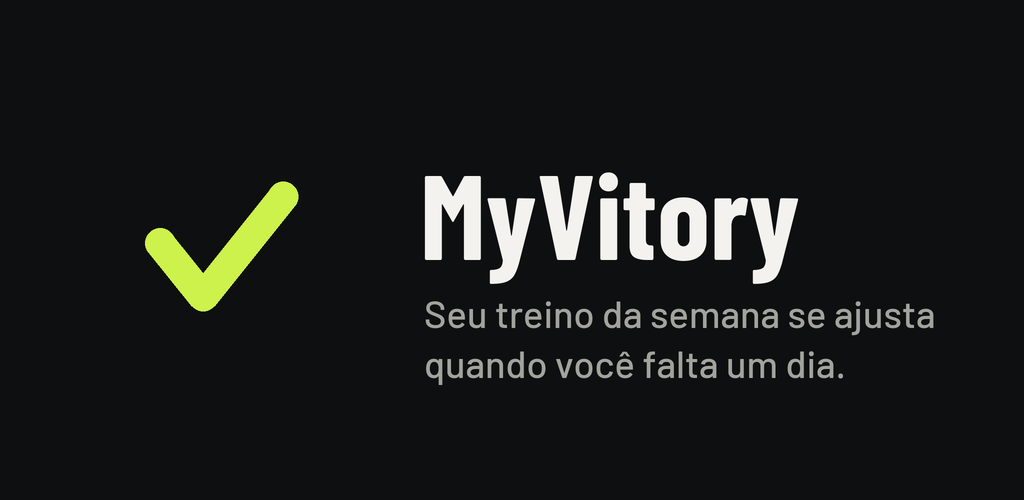
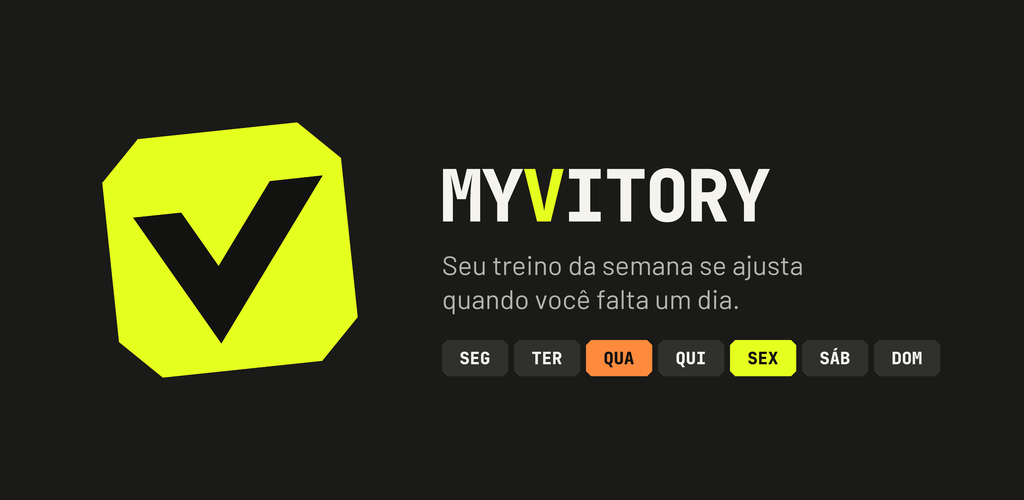
v0.13.1: marca Selo V
Ícone do app sem fundo (adaptive icon com fundo transparente), versão
monocromática para o ícone temático, notificação só com o V e abertura
animada no Android 12+. Painel com o selo e o nome (V em volt) no topo e no
login, favicon novo. Artes da Play Store e marca horizontal do README
refeitas a partir da mesma geometria.

Changed region(s): [[0.4062, 0.33, 0.9375, 0.78], [0.0938, 0.24, 0.375, 0.78]]

diff --git a/app/src/test/kotlin/com/myvitory/app/ui/ScreensRenderTest.kt b/app/src/test/kotlin/com/myvitory/app/ui/ScreensRenderTest.kt
@@ -16,6 +16,26 @@ import androidx.compose.ui.test.performClick
 import androidx.compose.ui.test.performSemanticsAction
 import androidx.compose.ui.semantics.SemanticsActions
 import com.myvitory.app.ui.theme.MyVitoryTheme
+import androidx.compose.foundation.Image
+import androidx.compose.foundation.background
+import androidx.compose.foundation.layout.Arrangement
+import androidx.compose.foundation.layout.Box
+import androidx.compose.foundation.layout.Column
+import androidx.compose.foundation.layout.Row
+import androidx.compose.foundation.layout.padding
+import androidx.compose.foundation.layout.requiredSize
+import androidx.compose.foundation.layout.size
+import androidx.compose.foundation.shape.CircleShape
+import androidx.compose.material3.Icon
+import androidx.compose.ui.Alignment
+import androidx.compose.ui.Modifier
+import androidx.compose.ui.draw.clip
+import androidx.compose.ui.graphics.Color
+import androidx.compose.ui.platform.testTag
+import androidx.compose.ui.res.painterResource
+import androidx.compose.ui.test.onNodeWithTag
+import androidx.compose.ui.unit.dp
+import com.myvitory.app.R
 import java.io.File
 import org.junit.Assert.assertTrue
 import org.junit.Rule
@@ -86,6 +106,38 @@ class ScreensRenderTest {
         rule.waitUntilAtLeastOneExists(hasText("APLICAR") or hasText("PULAR TREINO PERDIDO"), timeoutMillis = 10_000)
         rule.waitForIdle()
         save("nova-semana")
+    }
+
+    /** O Selo V como o launcher desenha (fundo transparente) sobre papel de parede claro e escuro, mais o temático e a notificação. */
+    @Test
+    fun `renderiza o ícone do app`() {
+        rule.setContent {
+            Column(Modifier.testTag("icones").background(Color(0xFF888680)).padding(16.dp), verticalArrangement = Arrangement.spacedBy(16.dp)) {
+                Row(horizontalArrangement = Arrangement.spacedBy(16.dp)) {
+                    for (wallpaper in listOf(Color(0xFFE6E3DA), Color(0xFF2E3440), Color(0xFF4F7A5A))) {
+                        Box(Modifier.size(96.dp).background(wallpaper), Alignment.Center) {
+                            // Área visível do ícone adaptativo: 72 de 108, sem fundo.
+                            Image(painterResource(R.drawable.ic_launcher_foreground), null, Modifier.requiredSize(96.dp * 108 / 72))
+                        }
+                    }
+                }
+                Row(horizontalArrangement = Arrangement.spacedBy(16.dp), verticalAlignment = Alignment.CenterVertically) {
+                    Box(Modifier.size(96.dp).clip(CircleShape).background(Color(0xFF3D4A7A)), Alignment.Center) {
+                        Icon(painterResource(R.drawable.ic_launcher_monochrome), null, Modifier.requiredSize(144.dp), tint = Color(0xFFD9E0FF))
+                    }
+                    Box(Modifier.size(48.dp).background(Color(0xFF111111)), Alignment.Center) {
+                        Icon(painterResource(R.drawable.ic_notification), null, Modifier.size(24.dp), tint = Color.White)
+                    }
+                    Box(Modifier.size(24.dp).background(Color(0xFF111111)), Alignment.Center) {
+                        Icon(painterResource(R.drawable.ic_notification), null, Modifier.size(16.dp), tint = Color.White)
+                    }
+                }
+            }
+        }
+        val bitmap = rule.onNodeWithTag("icones").captureToImage().asAndroidBitmap()
+        val out = File("build/outputs/render/icone.png").apply { parentFile?.mkdirs() }
+        out.outputStream().use { bitmap.compress(Bitmap.CompressFormat.PNG, 100, it) }
+        assertTrue(out.length() > 0)
     }
 
     private fun save(name: String) {

diff --git a/web/src/components/ui.tsx b/web/src/components/ui.tsx
@@ -5,6 +5,30 @@ import { currentMotion, saveData } from '../lib/device'
 export type Tone = 'flame' | 'volt' | 'paper' | 'sky' | 'dim'
 
 /**
+ * Selo V: o mesmo desenho do ícone do app (res/drawable/ic_launcher_foreground.xml), na grade de 108.
+ * Etiqueta volt inclinada −6° com o V em tinta (V de Vitory e ✓ de feito).
+ */
+export function BrandMark({ size = 32, className = '' }: { size?: number; className?: string }) {
+  return (
+    <svg className={`brand-mark${className ? ` ${className}` : ''}`} width={size} height={size} viewBox="20 20 68 68" aria-hidden="true" focusable="false">
+      <g transform="rotate(-6 54 54)">
+        <path d="M36 27H72L81 36V72L72 81H36L27 72V36Z" fill="var(--volt)" />
+        <path d="M33.06 44.5H43.94L51.1 57.33L64.56 39.5H76.47L49.9 74.67Z" fill="var(--ink)" />
+      </g>
+    </svg>
+  )
+}
+
+/** Nome em mono caixa alta com o V do meio em volt, a ponte com o selo. */
+export function Wordmark() {
+  return (
+    <span className="wordmark">
+      My<span className="v">V</span>itory
+    </span>
+  )
+}
+
+/**
  * Etiqueta chanfrada: número grande e unidade pequena ("05 EXERC"). Só mostra dado, nunca recebe clique.
  * Com [stamp], entra como adesivo batido; [stamp] é a posição na faixa (70 ms entre cada).
  */

diff --git a/web/src/pages/EntryPages.tsx b/web/src/pages/EntryPages.tsx
@@ -1,6 +1,7 @@
 import { useState } from 'react'
 import { GoogleAuthProvider, signInWithCredential, signInWithPopup, signInWithRedirect, type User } from 'firebase/auth'
 import { auth, google, usingEmulators } from '../firebase'
+import { BrandMark, Wordmark } from '../components/ui'
 import { normalizeCode, pairWithCode, type Athlete } from '../lib/data'
 import { relative } from '../lib/format'
 
@@ -10,10 +11,9 @@ export function LoginPage() {
     <div className="center-page">
       <div className="hero">
         <span className="brand">
-          <span className="brand-mark" aria-hidden="true">
-            MV
-          </span>
-          MyVitory <small>painel do treinador</small>
+          {/* No login o selo entra carimbando, como na abertura do app. */}
+          <BrandMark size={44} className="stamp-in" />
+          <Wordmark /> <small>painel do treinador</small>
         </span>
         <h1>Monte e acompanhe o treino pelo navegador.</h1>
         <p className="muted" style={{ margin: 0 }}>

diff --git a/web/src/App.tsx b/web/src/App.tsx
@@ -2,6 +2,7 @@ import { useEffect, useRef, useState } from 'react'
 import { signOut, type User } from 'firebase/auth'
 import { auth, configured, usingEmulators } from './firebase'
 import { useAthletes, useUser } from './lib/data'
+import { BrandMark, Wordmark } from './components/ui'
 import { AthletePage } from './pages/AthletePage'
 import { HomePage, LoginPage, SetupPage } from './pages/EntryPages'
 
@@ -42,10 +43,8 @@ function Signed({ user }: { user: User }) {
     <>
       <header className="topbar">
         <a className="brand" href="#/">
-          <span className="brand-mark" aria-hidden="true">
-            MV
-          </span>
-          MyVitory <small>painel do treinador</small>
+          <BrandMark />
+          <Wordmark /> <small>painel do treinador</small>
         </a>
         {athletes && athletes.length > 1 && (
           <select className="select" style={{ width: 'auto' }} value={athleteId ?? ''} onChange={(e) => open(e.target.value || null)} aria-label="Atleta">

diff --git a/web/src/styles.css b/web/src/styles.css
@@ -113,18 +113,9 @@ h1, h2, h3 { text-wrap: balance; }
 
 .brand { display: inline-flex; align-items: center; gap: 10px; font: 800 18px/1 var(--font-mono); letter-spacing: -0.01em; text-transform: uppercase; color: inherit; text-decoration: none; }
 .brand small { font: 400 13px var(--font);color: var(--text-muted); letter-spacing: 0; text-transform: none; }
-.brand-mark {
-  width: 30px;
-  height: 30px;
-  display: inline-grid;
-  place-items: center;
-  background: var(--volt);
-  color: var(--ink);
-  font: 800 12px/1 var(--font-mono);
-  clip-path: var(--chamfer);
-  transform: rotate(-6deg);
-  flex: none;
-}
+/* Selo V (components/ui.tsx BrandMark) e o nome com o V em volt. */
+.brand-mark { display: block; flex: none; overflow: visible; }
+.wordmark .v { color: var(--volt); }
 
 .topbar .spacer { flex: 1; }
 .topbar .select { width: auto; min-height: 38px; border-radius: 999px; padding: 4px 14px; font-weight: 600; }

diff --git a/README.md b/README.md
@@ -1,3 +1,5 @@
+<p align="center"><img src="docs/marca/myvitory-horizontal.png" alt="MyVitory" width="380"></p>
+
 # MyVitory
 
 **App Android de treino semanal que se reorganiza quando você falta, respeitando o descanso de cada
@@ -93,6 +95,10 @@ dos exercícios e o painel do treinador (opcional) usam internet.
 
 ### Visual, movimento e celulares fracos
 
+- **Marca (Selo V):** etiqueta volt de canto cortado, inclinada como adesivo, com um V em tinta que é V
+  de Vitory e ✓ de feito. O ícone do celular não tem fundo (só o selo sobre o papel de parede), tem versão
+  temática para o Android 13+ e entra carimbando na abertura do Android 12+. A geometria está em
+  `res/drawable/ic_launcher_foreground.xml`; o painel usa o mesmo desenho em `BrandMark`.
 - **Sistema Adesivo:** cores com papel fixo (volt é a ação principal, laranja é o que pede atenção agora,
   branco é a alternativa, azul é informação), JetBrains Mono para números e títulos e Barlow para leitura.
   Pílula recebe toque; etiqueta de canto cortado só mostra dado. Os tokens são os mesmos em
@@ -212,7 +218,7 @@ A cota gratuita é de 10.000 unidades por dia e cada busca custa 100. O app guar
 
 ## Status
 
-Versão 0.13.0, em preparação para o teste fechado na Play Store. O roteiro de publicação está em
+Versão 0.13.1, em preparação para o teste fechado na Play Store. O roteiro de publicação está em
 [`docs/play-store.md`](docs/play-store.md) e a política de privacidade em
 [`docs/politica-de-privacidade.md`](docs/politica-de-privacidade.md).
 
